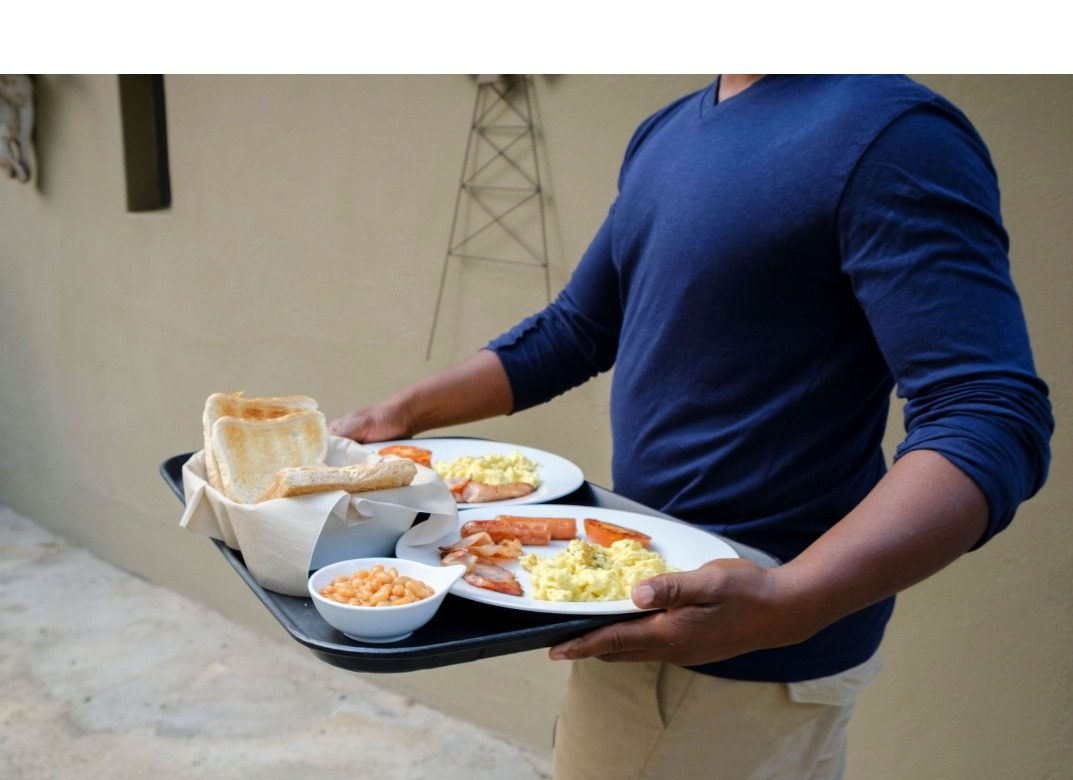
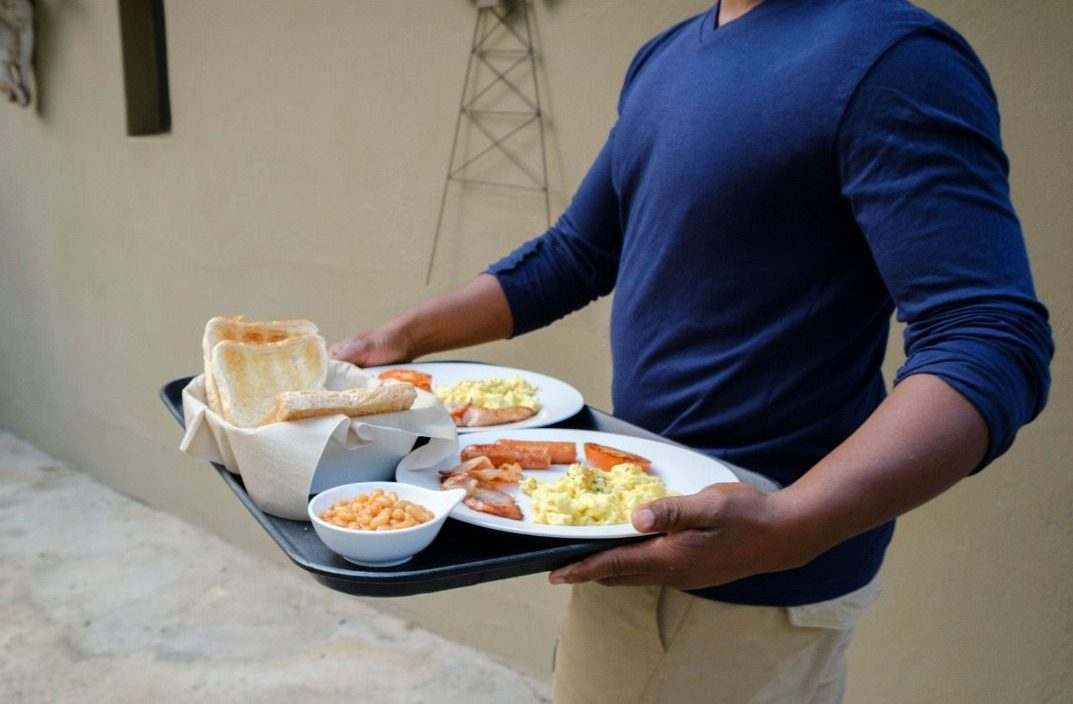
Villa gallery: click to enlarge (lightbox with arrows, swipe, Esc); trim white border from villa photos
Claude-Session: https://claude.ai/code/session_01C8DKQUi8iBYsYwFHHUEAvp

diff --git a/index.html b/index.html
@@ -136,6 +136,21 @@
 .villa-gal figcaption{position:absolute;left:0;right:0;bottom:0;padding:16px 8px 6px;font-size:.72rem;font-weight:700;color:#FFFBF3;background:linear-gradient(0deg,rgba(26,16,6,.75),transparent)}
 @media(max-width:900px){.vg-row{grid-template-columns:1fr}.vg-grid{grid-template-columns:repeat(3,minmax(0,1fr))}.vg-grid.vg-2{max-width:66%}}
 @media(max-width:520px){.vg-grid{grid-template-columns:repeat(2,minmax(0,1fr))}.vg-grid.vg-2{max-width:100%}}
+
+/* Villa gallery lightbox */
+.villa-gal figure{cursor:zoom-in}
+.vg-lb{position:fixed;inset:0;z-index:9999;background:rgba(14,9,4,.94);display:flex;align-items:center;justify-content:center;padding:max(16px,env(safe-area-inset-top,0px)) max(16px,env(safe-area-inset-right,0px)) max(16px,env(safe-area-inset-bottom,0px)) max(16px,env(safe-area-inset-left,0px))}
+.vg-lb[hidden]{display:none}
+.vg-lb figure{margin:0;display:grid;gap:10px;justify-items:center;max-width:min(1200px,100%)}
+.vg-lb img{max-width:100%;max-height:82vh;border-radius:8px;box-shadow:0 30px 80px rgba(0,0,0,.5)}
+.vg-lb figcaption{color:#FFFBF3;font-size:.95rem;text-align:center}
+.vg-lb figcaption small{display:block;color:#B59B76;font-size:.8rem}
+.vg-lb button{position:absolute;background:rgba(255,251,243,.12);color:#FFFBF3;border:1px solid rgba(255,251,243,.25);width:48px;height:48px;border-radius:50%;font-size:24px;line-height:1;cursor:pointer}
+.vg-lb button:hover,.vg-lb button:focus-visible{background:rgba(255,251,243,.25);outline:none}
+.vg-lb .x{top:max(16px,env(safe-area-inset-top,0px));right:max(16px,env(safe-area-inset-right,0px))}
+.vg-lb .pv{left:max(16px,env(safe-area-inset-left,0px));top:50%;transform:translateY(-50%)}
+.vg-lb .nx{right:max(16px,env(safe-area-inset-right,0px));top:50%;transform:translateY(-50%)}
+@media(max-width:600px){.vg-lb .pv,.vg-lb .nx{top:auto;bottom:max(16px,env(safe-area-inset-bottom,0px));transform:none}}
 </style>
 </head>
 <body>
@@ -275,5 +290,25 @@
 document.addEventListener('click',function(e){var a=e.target.closest&&e.target.closest('a[href]');if(!a||typeof gtag!=='function')return;var h=a.getAttribute('href')||'',m=null;
 if(/wa\.me|whatsapp/i.test(h))m='whatsapp';else if(/^mailto:/i.test(h))m='email';else if(/^tel:/i.test(h))m='phone';else if(/booking\.com/i.test(h))m='booking_com';else if(/airbnb\./i.test(h))m='airbnb';
 if(m)gtag('event','generate_lead',{method:m,page_path:location.pathname,link_text:(a.textContent||'').trim().slice(0,80)});},true);</script>
+<div class="vg-lb" id="vg-lb" hidden role="dialog" aria-modal="true" aria-label="Villa photo">
+  <button class="x" type="button" aria-label="Close">&times;</button>
+  <button class="pv" type="button" aria-label="Previous photo">&#8249;</button>
+  <figure><img alt=""><figcaption></figcaption></figure>
+  <button class="nx" type="button" aria-label="Next photo">&#8250;</button>
+</div>
+<script>(function(){
+var figs=[].slice.call(document.querySelectorAll('.villa-gal figure'));if(!figs.length)return;
+var lb=document.getElementById('vg-lb'),img=lb.querySelector('img'),cap=lb.querySelector('figcaption'),i=0,last=null;
+function villa(f){var r=f.closest('.vg-row');var b=r&&r.querySelector('.vg-label b');return b?b.textContent:''}
+function show(n){i=(n+figs.length)%figs.length;var f=figs[i],s=f.querySelector('img');img.src=s.src;img.alt=s.alt;cap.innerHTML=f.querySelector('figcaption').innerHTML+'<small>'+villa(f)+' \u00b7 '+(i+1)+' / '+figs.length+'</small>'}
+function open(n){last=document.activeElement;show(n);lb.hidden=false;document.body.style.overflow='hidden';lb.querySelector('.x').focus()}
+function close(){lb.hidden=true;document.body.style.overflow='';if(last)last.focus()}
+figs.forEach(function(f,n){f.tabIndex=0;f.setAttribute('role','button');f.addEventListener('click',function(){open(n)});f.addEventListener('keydown',function(e){if(e.key==='Enter'||e.key===' '){e.preventDefault();open(n)}})});
+lb.querySelector('.x').onclick=close;lb.querySelector('.pv').onclick=function(){show(i-1)};lb.querySelector('.nx').onclick=function(){show(i+1)};
+lb.addEventListener('click',function(e){if(e.target===lb)close()});
+document.addEventListener('keydown',function(e){if(lb.hidden)return;if(e.key==='Escape')close();else if(e.key==='ArrowLeft')show(i-1);else if(e.key==='ArrowRight')show(i+1)});
+var x0=null;lb.addEventListener('touchstart',function(e){x0=e.touches[0].clientX},{passive:true});
+lb.addEventListener('touchend',function(e){if(x0===null)return;var d=e.changedTouches[0].clientX-x0;if(Math.abs(d)>40)show(i+(d<0?1:-1));x0=null});
+})();</script>
 </body>
 </html>

diff --git a/african-sky-villas-tours-and-activities.html b/african-sky-villas-tours-and-activities.html
@@ -535,6 +535,21 @@ footer a:hover { color: var(--bone); }
 @media(max-width:900px){.vg-row{grid-template-columns:1fr}.vg-grid{grid-template-columns:repeat(3,minmax(0,1fr))}.vg-grid.vg-2{max-width:66%}}
 @media(max-width:520px){.vg-grid{grid-template-columns:repeat(2,minmax(0,1fr))}.vg-grid.vg-2{max-width:100%}}
 .villas-band{background:var(--cream);padding:3rem 0 0}
+
+/* Villa gallery lightbox */
+.villa-gal figure{cursor:zoom-in}
+.vg-lb{position:fixed;inset:0;z-index:9999;background:rgba(14,9,4,.94);display:flex;align-items:center;justify-content:center;padding:max(16px,env(safe-area-inset-top,0px)) max(16px,env(safe-area-inset-right,0px)) max(16px,env(safe-area-inset-bottom,0px)) max(16px,env(safe-area-inset-left,0px))}
+.vg-lb[hidden]{display:none}
+.vg-lb figure{margin:0;display:grid;gap:10px;justify-items:center;max-width:min(1200px,100%)}
+.vg-lb img{max-width:100%;max-height:82vh;border-radius:8px;box-shadow:0 30px 80px rgba(0,0,0,.5)}
+.vg-lb figcaption{color:#FFFBF3;font-size:.95rem;text-align:center}
+.vg-lb figcaption small{display:block;color:#B59B76;font-size:.8rem}
+.vg-lb button{position:absolute;background:rgba(255,251,243,.12);color:#FFFBF3;border:1px solid rgba(255,251,243,.25);width:48px;height:48px;border-radius:50%;font-size:24px;line-height:1;cursor:pointer}
+.vg-lb button:hover,.vg-lb button:focus-visible{background:rgba(255,251,243,.25);outline:none}
+.vg-lb .x{top:max(16px,env(safe-area-inset-top,0px));right:max(16px,env(safe-area-inset-right,0px))}
+.vg-lb .pv{left:max(16px,env(safe-area-inset-left,0px));top:50%;transform:translateY(-50%)}
+.vg-lb .nx{right:max(16px,env(safe-area-inset-right,0px));top:50%;transform:translateY(-50%)}
+@media(max-width:600px){.vg-lb .pv,.vg-lb .nx{top:auto;bottom:max(16px,env(safe-area-inset-bottom,0px));transform:none}}
 </style>
 <style>
 @media (max-width: 768px) {
@@ -2143,5 +2158,25 @@ initCookieConsent();
 document.addEventListener('click',function(e){var a=e.target.closest&&e.target.closest('a[href]');if(!a||typeof gtag!=='function')return;var h=a.getAttribute('href')||'',m=null;
 if(/wa\.me|whatsapp/i.test(h))m='whatsapp';else if(/^mailto:/i.test(h))m='email';else if(/^tel:/i.test(h))m='phone';else if(/booking\.com/i.test(h))m='booking_com';else if(/airbnb\./i.test(h))m='airbnb';
 if(m)gtag('event','generate_lead',{method:m,page_path:location.pathname,link_text:(a.textContent||'').trim().slice(0,80)});},true);</script>
+<div class="vg-lb" id="vg-lb" hidden role="dialog" aria-modal="true" aria-label="Villa photo">
+  <button class="x" type="button" aria-label="Close">&times;</button>
+  <button class="pv" type="button" aria-label="Previous photo">&#8249;</button>
+  <figure><img alt=""><figcaption></figcaption></figure>
+  <button class="nx" type="button" aria-label="Next photo">&#8250;</button>
+</div>
+<script>(function(){
+var figs=[].slice.call(document.querySelectorAll('.villa-gal figure'));if(!figs.length)return;
+var lb=document.getElementById('vg-lb'),img=lb.querySelector('img'),cap=lb.querySelector('figcaption'),i=0,last=null;
+function villa(f){var r=f.closest('.vg-row');var b=r&&r.querySelector('.vg-label b');return b?b.textContent:''}
+function show(n){i=(n+figs.length)%figs.length;var f=figs[i],s=f.querySelector('img');img.src=s.src;img.alt=s.alt;cap.innerHTML=f.querySelector('figcaption').innerHTML+'<small>'+villa(f)+' \u00b7 '+(i+1)+' / '+figs.length+'</small>'}
+function open(n){last=document.activeElement;show(n);lb.hidden=false;document.body.style.overflow='hidden';lb.querySelector('.x').focus()}
+function close(){lb.hidden=true;document.body.style.overflow='';if(last)last.focus()}
+figs.forEach(function(f,n){f.tabIndex=0;f.setAttribute('role','button');f.addEventListener('click',function(){open(n)});f.addEventListener('keydown',function(e){if(e.key==='Enter'||e.key===' '){e.preventDefault();open(n)}})});
+lb.querySelector('.x').onclick=close;lb.querySelector('.pv').onclick=function(){show(i-1)};lb.querySelector('.nx').onclick=function(){show(i+1)};
+lb.addEventListener('click',function(e){if(e.target===lb)close()});
+document.addEventListener('keydown',function(e){if(lb.hidden)return;if(e.key==='Escape')close();else if(e.key==='ArrowLeft')show(i-1);else if(e.key==='ArrowRight')show(i+1)});
+var x0=null;lb.addEventListener('touchstart',function(e){x0=e.touches[0].clientX},{passive:true});
+lb.addEventListener('touchend',function(e){if(x0===null)return;var d=e.changedTouches[0].clientX-x0;if(Math.abs(d)>40)show(i+(d<0?1:-1));x0=null});
+})();</script>
 </body>
 </html>
